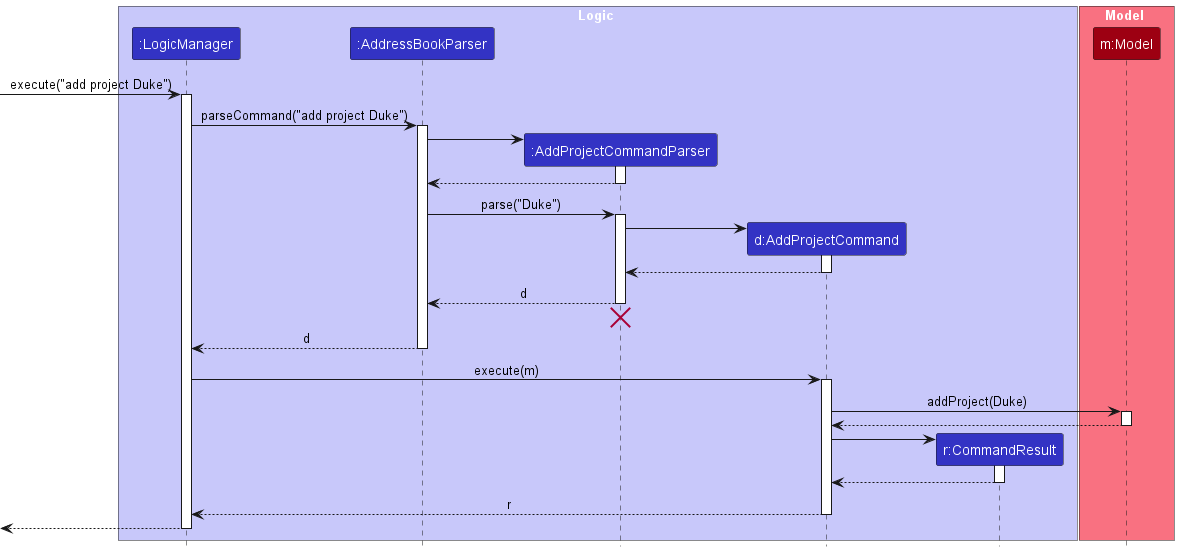
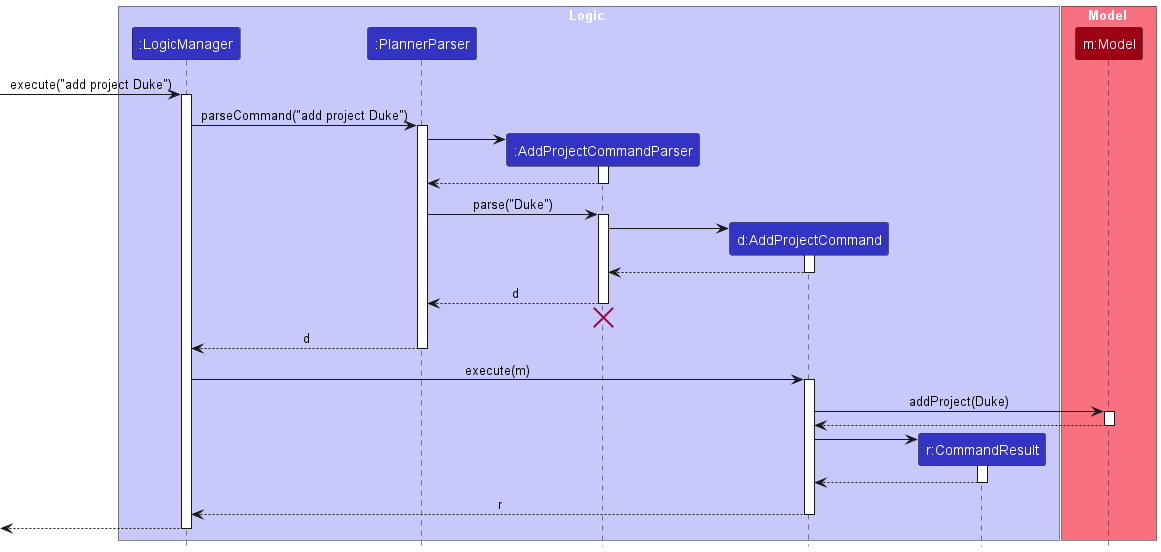
Fix syntax error

diff --git a/docs/DeveloperGuide.md b/docs/DeveloperGuide.md
@@ -105,7 +105,7 @@ How the `Logic` component works:
 
 1. When `Logic` is called upon to execute a command, it is passed to an `PlannerParser` object which in turn creates a parser that matches the command (e.g., `DeleteProjectCommandParser`) and uses it to parse the command.
 1. This results in a `Command` object (more precisely, an object of one of its subclasses e.g., `DeleteProjectCommand`) which is executed by the `LogicManager`.
-1. The command can communicate with the `Model` when it is executed (e.g. to delete a person).<br>
+1. The command can communicate with the `Model` when it is executed (e.g. to delete a project).<br>
    Note that although this is shown as a single step in the diagram above (for simplicity), in the code it can take several interactions (between the command object and the `Model`) to achieve.
 1. The result of the command execution is encapsulated as a `CommandResult` object which is returned back from `Logic`.
 
@@ -222,13 +222,13 @@ This section describes some noteworthy details on how certain features are imple
 
 1. The PlannerParser parses the command string given by the user, and looks for the command word "delete task". Then AddTaskCommandParser parse function is called.
 2. If the PROJECT_NAME or TASK_NAME is an empty string, an exception is thrown, else the AddTaskCommand execution function is called.
-3. The AddTaskCommand class is responsible for adding a task within a project.
+3. The `AddTaskCommand` class is responsible for adding a task within a project.
     - The constructor of the class takes in a project of type Project and a task of type Task.
     - If the project doesn't exist within the project list, then an exception is thrown.
-        - The check is done by using java.util.stream.Stream.anyMatch(Predicate<? super Person> predicate).
-        - The predicate used is implemented at seedu.address.model.person.Person.isSamePerson(Person otherProject) which checks if the two projects are the same using their names.
+        - The check is done by using `java.util.stream.Stream.anyMatch(Predicate<? super Project> predicate)`
+        - The predicate used is implemented at `seedu.address.model.project.Project.isSameProject(Project otherProject)` which checks if the two projects are the same using their names.
     - If the task already exist within the project, then an exception is thrown.
-        - The check is done by using Person::hasTask
+        - The check is done by using `Project::hasTask`
     - Else the task is successfully added.
 
 ### Deleting a task
@@ -311,7 +311,7 @@ This section describes some noteworthy details on how certain features are imple
 
 1. The PlannerParser parses the command string given by the user, and looks for the command word "add person". Then AddPersonCommandParser parse function is called.
 2. If the PROJECT_NAME or PERSON_NAME is an empty string or an invalid name, an exception is thrown, else the AddPersonCommand execution function is called.
-3. The AddPersonCommand class is responsible for adding a member to a project.
+3. The `AddPersonCommand` class is responsible for adding a member to a project.
     - The constructor of the class takes in a project of type Project and a member of type Member.
     - If the project doesn't exist within the project list, then an exception is thrown.
     - Else the member is successfully added to the project.
@@ -322,7 +322,7 @@ This section describes some noteworthy details on how certain features are imple
 
 1. The PlannerParser parses the command string given by the user, and looks for the command word "assign person". Then AssignPersonCommandParser parse function is called.
 2. If the PROJECT_NAME, TASK_NAME, or PERSON_NAME is an empty string or an invalid name, an exception is thrown, else the AssignPersonCommand execution function is called.
-3. The AssignPersonCommand class is responsible for assigning a member to a task.
+3. The `AssignPersonCommand` class is responsible for assigning a member to a task.
     - The constructor of the class takes in a project of type Project and a member of type Member.
     - If the project doesn't exist within the project list, then an exception is thrown.
     - If the task doesn't exist within the project, then an exception is thrown.
@@ -334,7 +334,7 @@ This section describes some noteworthy details on how certain features are imple
 #### Implementation
 1. The PlannerParser parses the command string given by the user, and looks for the command word "delete person". Then DeletePersonCommandParser parse function is called.
 2. If the PROJECT_NAME or PERSON_NAME is an empty string or an invalid name, an exception is thrown, else the DeletePersonCommand execution function is called.
-3. The DeletePersonCommand class is responsible for removing a member from a project.
+3. The `DeletePersonCommand` class is responsible for removing a member from a project.
     - The constructor of the class takes in a project of type Project and a member of type Member.
     - If the project doesn't exist within the project list, then an exception is thrown.
     - If the member isn't a member of the project, then an exception is thrown.
@@ -894,14 +894,14 @@ testers are expected to do more *exploratory* testing.
 ### Assign a person in current team to a project
 
     Assuming add person A /to CS2103T Ab3 was used and no member were added to CS2103T Ab3, users could try:
-    Test case: assign person A /to <existing task> /in  CS2103T Ab3
-    Expected: Successful result. Showing project CS2103T Ab3, would show A under team member below the task Name.
-
-    Test case: assign person B /to <existing task> /in  CS2103T Ab3
-    Expected: Error result. The person must be added to the project first before assigning to a task.
-
-    Test case: assign person A /to <non-existing task> /in  CS2103T Ab3
-    Expected: Error result. The task must exist in the project.
+        Test case: assign person A /to <existing task> /in  CS2103T Ab3
+        Expected: Successful result. Showing project CS2103T Ab3, would show A under team member below the task Name.
+    
+        Test case: assign person B /to <existing task> /in  CS2103T Ab3
+        Expected: Error result. The person must be added to the project first before assigning to a task.
+    
+        Test case: assign person A /to <non-existing task> /in  CS2103T Ab3
+        Expected: Error result. The task must exist in the project.
 
 
 ### delete person from a project
@@ -1003,4 +1003,19 @@ Addressing a reported bug related to truncated display of team members' informat
 
 Ultimately, through collective team and individual efforts involving extensive learning, research, flexibility, and comprehension of underlying systems, we overcome these challenges. We are eventually able to  come up with a design that closely mirrors our initial plans, both in functionality and interactivity.
 
+## **Appendix: Planned Enhancements**
+Team size: 4
+
+1. **Allow more than 1 category to be set for each project**:Currently,
+   only 1 category can be set to each project. However, this is not ideal
+   as projects can be categorised in many ways
+   such as scope and urgency, or type or purpose etc.
+2. **Prevent duplicate names from added to each project**: Currently,
+   we allow duplicate names to be added to each project, but this is not
+   ideal because when the user assign 1 of the duplicate name to do a task,
+   there will be confusion on which team member is being referred to. We plan
+   to have an error message when the user assigns a duplicate name to a project.
+3. **Allow more than 1 person to be assigned to each task**: Currently,
+   only 1 person can be responsible for each task, but this is not ideal
+   because some tasks may require collaboration between members.
 
